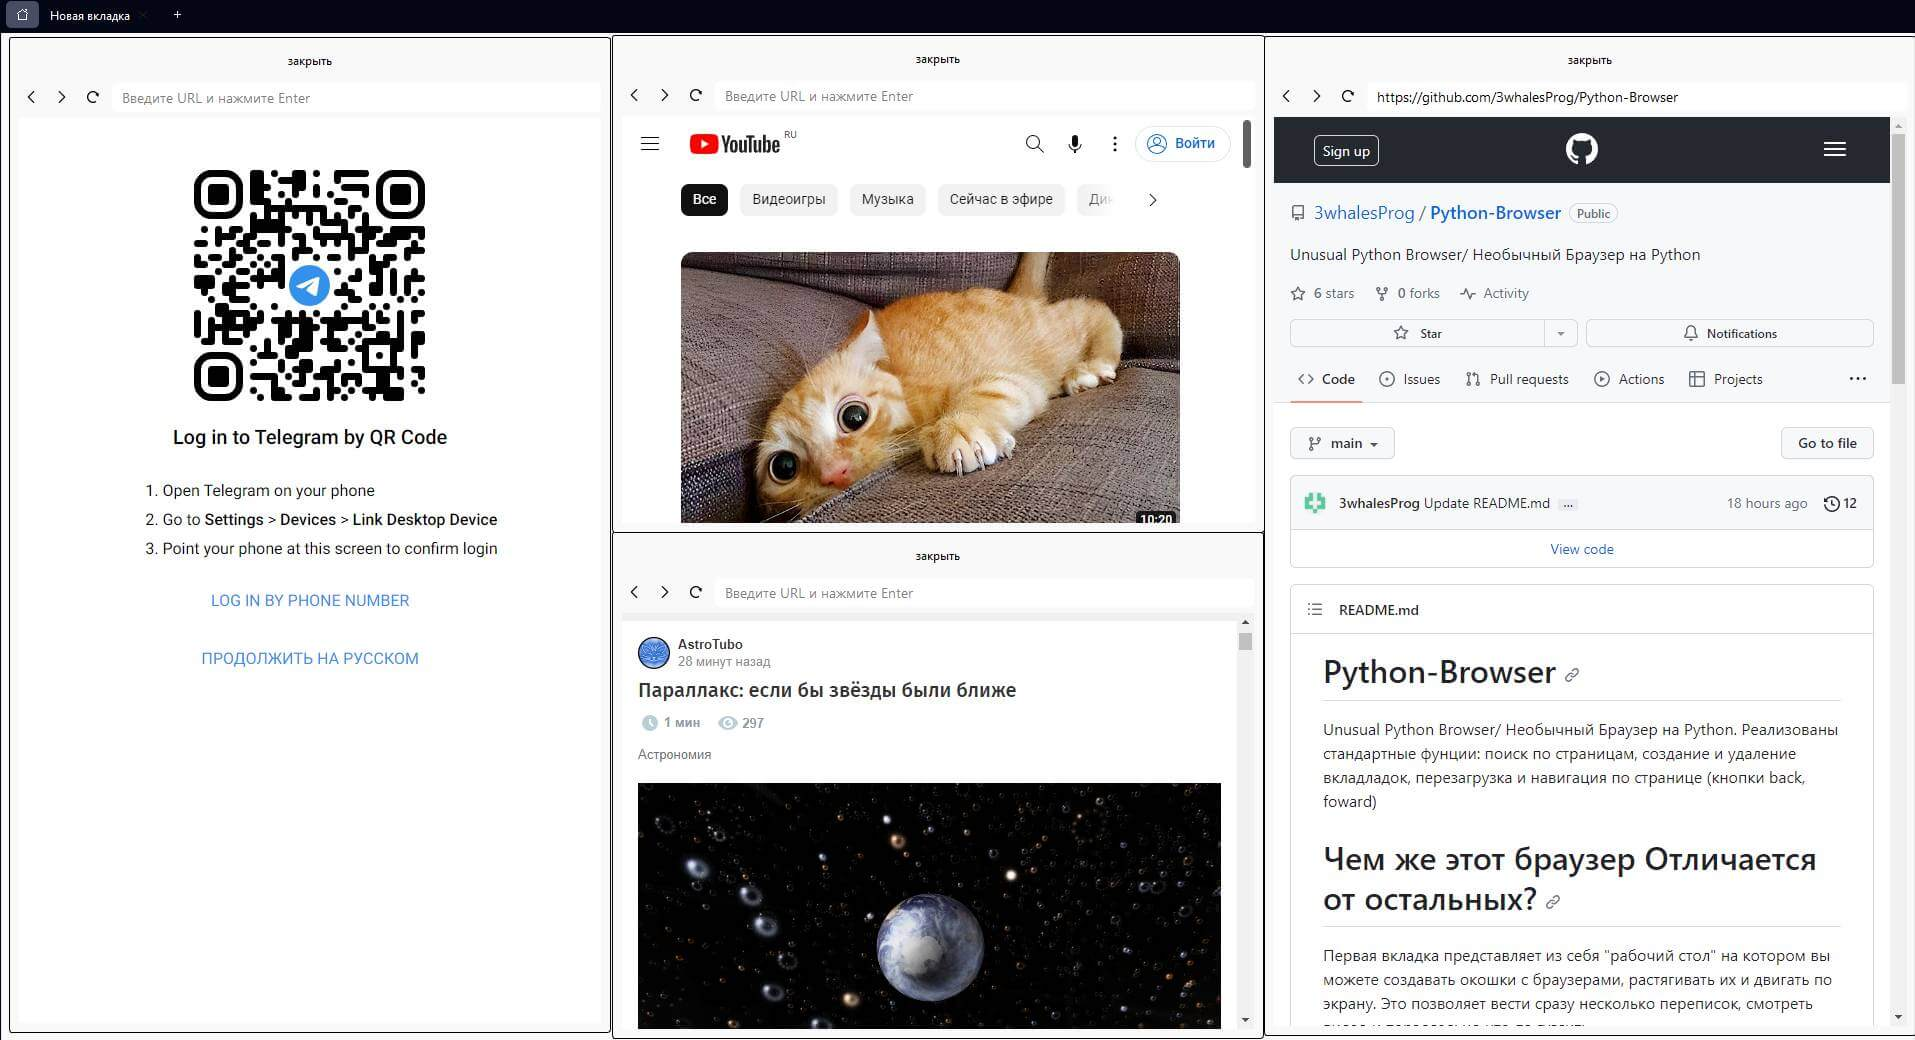
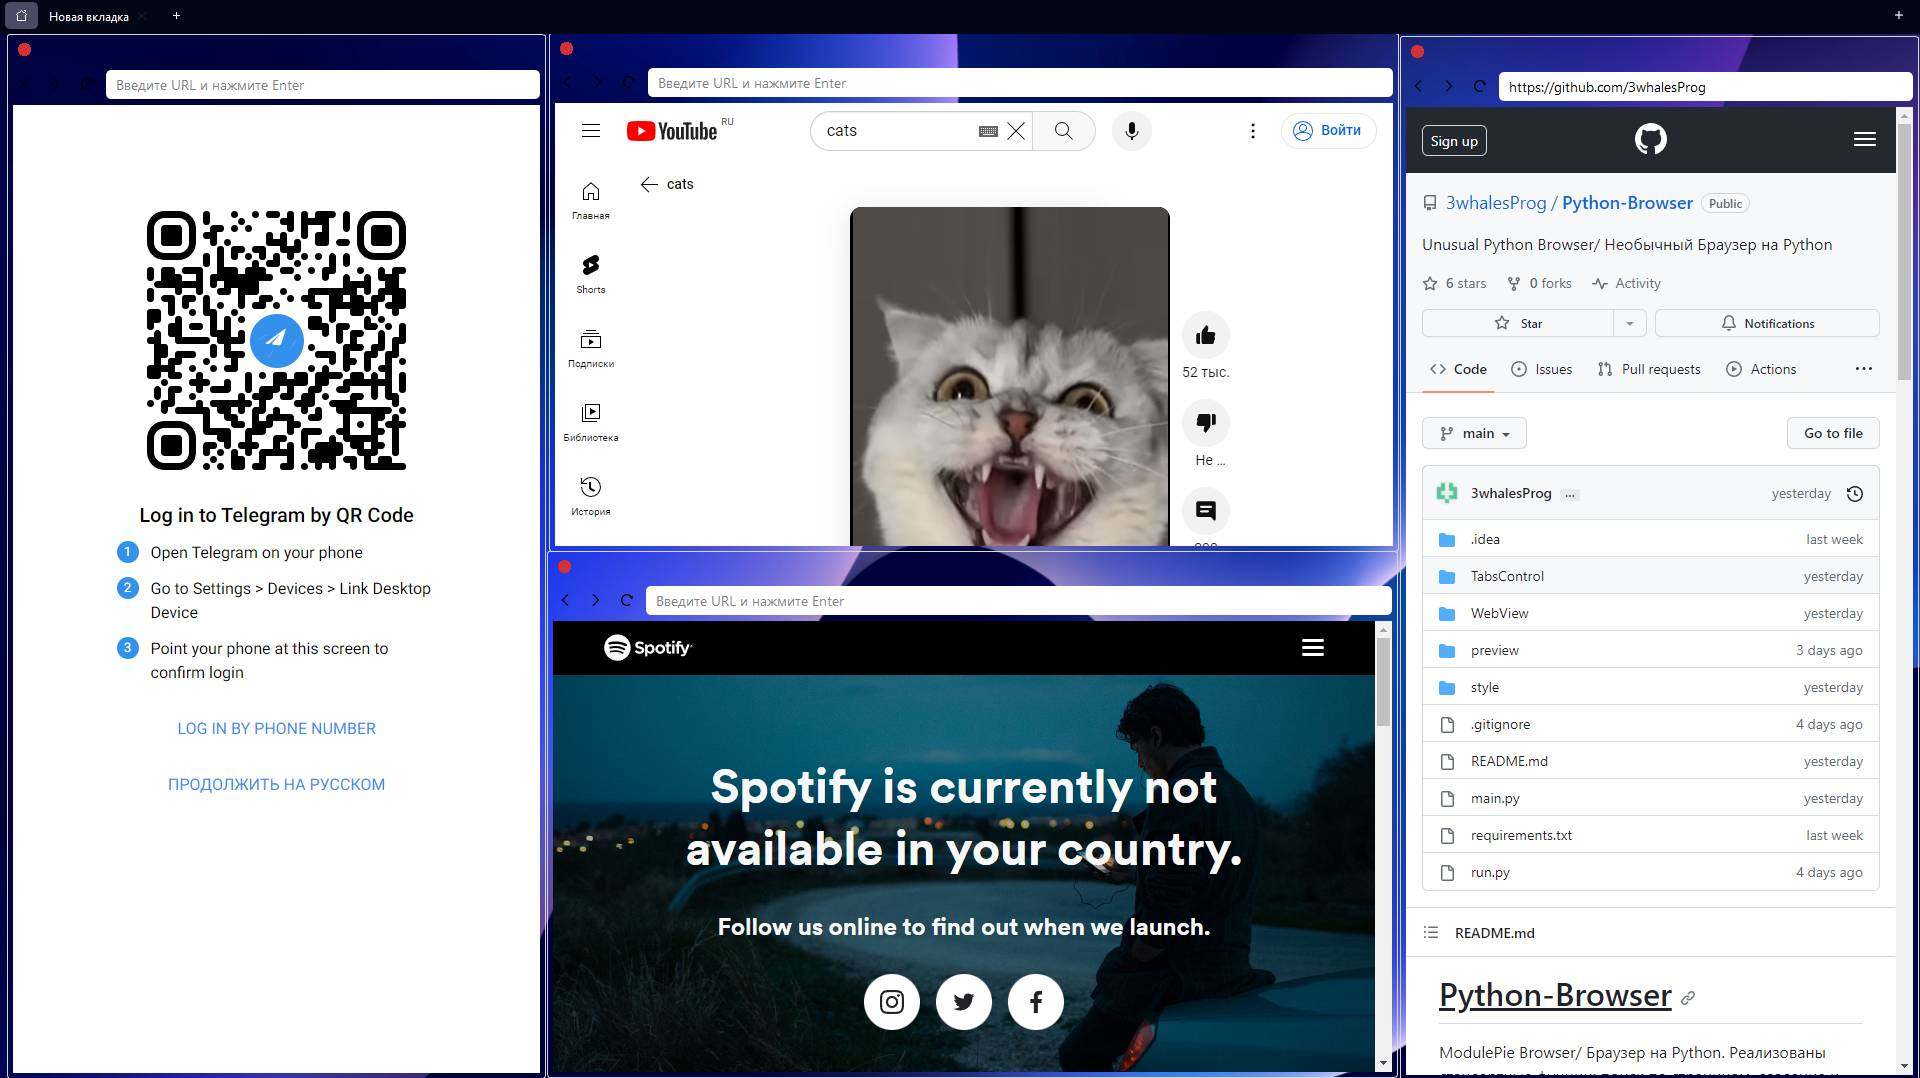
small fix

diff --git a/style/css/draggableBrowser.css b/style/css/draggableBrowser.css
@@ -6,7 +6,7 @@ QMainWindow{
 /*background-color: ;*/
 /*-----Окно, внутри которого находится Браузер-------------*/
 DraggableWidget{
-    border: 1px solid black;
+    border: 1px solid #D9D9D9;
     border-radius: 3px;
 }
 

diff --git a/TabsControl/TabController.py b/TabsControl/TabController.py
@@ -1,8 +1,8 @@
 from TabsControl import draggbleItems
-from PyQt6.QtWidgets import QTabWidget, QWidget, QVBoxLayout, QHBoxLayout, QToolButton
+from PyQt6.QtWidgets import QTabWidget, QWidget, QVBoxLayout
 from WebView import browser
-from PyQt6.QtGui import QIcon
-from PyQt6.QtCore import Qt
+
+
 class TabsController(QTabWidget):
     def __init__(self):
         super().__init__()
@@ -43,23 +43,24 @@ class TabsController(QTabWidget):
         self.home_tab = QWidget()
         layout = QVBoxLayout()
         self.home_tab.setLayout(layout)
-
+        self.home_tab.setStyleSheet('border-image: url(./TabsControl/wallpaper2.jpg) 2 2 2 2 ;')
+        #self.home_tab.setStyleSheet('background-color: rgb(3,6,21)')
         self.insertTab(self.count()-1, self.home_tab, '')
         self.setCurrentIndex(self.count() - 1)
 
 
     def addWindow(self): #Создание нового окна с браузером
-        currenWidget = self.currentWidget()
-        currentIndex = self.currentIndex()
-        if currentIndex == 0:
-            self.setCurrentIndex(1)
-            self.webWindow2 = draggbleItems.DraggableWidget(currenWidget)
-            self.webWindow2.setLayout(draggbleItems.DraggbleWebEngine(self.webWindow2))
-            self.setCurrentIndex(currentIndex)
-        else:
-            self.setCurrentIndex(0)
-            self.webWindow2 = draggbleItems.DraggableWidget(currenWidget)
-            self.webWindow2.setLayout(draggbleItems.DraggbleWebEngine(self.webWindow2))
-            self.setCurrentIndex(currentIndex)
+            currenWidget = self.currentWidget()
+            currentIndex = self.currentIndex()
+            if currentIndex == 0:
+                self.setCurrentIndex(1)
+                self.webWindow2 = draggbleItems.DraggableWidget(currenWidget)
+                self.webWindow2.setLayout(draggbleItems.DraggbleWebEngine(self.webWindow2))
+                self.setCurrentIndex(currentIndex)
+            else:
+                self.setCurrentIndex(0)
+                self.webWindow2 = draggbleItems.DraggableWidget(currenWidget)
+                self.webWindow2.setLayout(draggbleItems.DraggbleWebEngine(self.webWindow2))
+                self.setCurrentIndex(currentIndex)
 
 

diff --git a/TabsControl/draggbleItems.py b/TabsControl/draggbleItems.py
@@ -1,6 +1,7 @@
 from PyQt6.QtWidgets import *
-from PyQt6.QtCore import Qt
+from PyQt6.QtCore import Qt, QSize
 from WebView import browser
+from PyQt6.QtGui import QPixmap, QIcon
 
 class DraggableWidget(QFrame):
     def __init__(self, parent=None):
@@ -11,6 +12,7 @@ class DraggableWidget(QFrame):
         self.right_mouse_pressed = False
         self.pressed = False
         self.offset = None
+        self.setStyleSheet('border-image: none;')
 
     def mousePressEvent(self, event):
         if event.buttons() == Qt.MouseButton.LeftButton:
@@ -47,8 +49,13 @@ class DraggbleWebEngine(QVBoxLayout):
     def __init__(self, parent):
         super().__init__()
         self.box = parent
-        self.close_but = QPushButton('закрыть')
+        closeBut = QPixmap('./style/icons/closeWindow.svg')
+        scaled_closeBut = closeBut.scaled(QSize(13,13))
+        self.close_but = QToolButton()
+        self.close_but.setIcon(QIcon(scaled_closeBut))
+        self.close_but.setMinimumSize(13, 13)
         self.close_but.clicked.connect(self.remove_widget)
+        self.close_but.setStyleSheet('margin-left: 2px; ')
         self.webview_drag = browser.BrowserView()
         self.addWidget(self.close_but)
         self.addWidget(self.webview_drag)

diff --git a/main.py b/main.py
@@ -83,6 +83,7 @@ class TabbedBrowser(QMainWindow): #Класс управляет всеми вк
         # Настройка окна
         self.setWindowTitle("ModulePie Browser")
         self.setCentralWidget(central_widget)
+        #central_widget.setStyleSheet('border-image: url(./TabsControl/wallpaper.jpg) 0 0 0 0 stretch stretch;')
         screen = QApplication.primaryScreen()
         screen_size = screen.size()
         self.window_width = screen_size.width()
@@ -102,9 +103,9 @@ class TabbedBrowser(QMainWindow): #Класс управляет всеми вк
             else:
                 self.showFullScreen()
         if event.key() == Qt.Key.Key_F12:
-            self.toMaximized()
+            self.showMaximized()
         if event.modifiers() == Qt.KeyboardModifier.AltModifier and event.key() == Qt.Key.Key_Q: #Создание окна на HomeTab
-            self.tab_widget.addCube()
+            self.tab_widget.addWindow()
         if event.modifiers() == Qt.KeyboardModifier.ControlModifier and event.key() == Qt.Key.Key_T: #Создание newTab
             self.tab_widget.newTab()
 

diff --git a/WebView/url.py b/WebView/url.py
@@ -10,6 +10,7 @@ class UrlNavigationWidget(QWidget):
         layout = QHBoxLayout()
 
         self.url_edit = QLineEdit(self)
+        self.url_edit.setStyleSheet("background-color:white")
         back_button = QPushButton()
         back_button.setIcon(QIcon(self.get_resized_icon('style/icons/back.png', 12, 12)))
         back_button.clicked.connect(self.browser_view.back)
